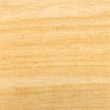
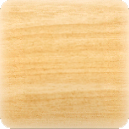
Add files via upload

diff --git a/script.js b/script.js
@@ -327,25 +327,62 @@ class Game {
     addEventListeners() {
         document.addEventListener('mousedown', (e) => this.handleMouseDown(e));
         document.addEventListener('mouseup', () => this.handleMouseUp());
+        document.addEventListener('touchstart', (e) => this.handleTouchStart(e));
+        document.addEventListener('touchend', () => this.handleTouchEnd());
+        document.addEventListener('touchmove', (e) => this.handleTouchMove(e), { passive: false });
         this.grid.querySelectorAll('.box').forEach(box => {
             box.addEventListener('mousemove', (e) => this.handleMouseMove(e, box));
             box.addEventListener('mousedown', (e) => this.handleBoxClick(e, box));
+            box.addEventListener('touchstart', (e) => this.handleBoxTouch(e, box));
         });
     }
 
+
     // Input detection
+    handleTouchStart(e) {
+        const touch = e.touches[0];
+        if (touch.target.classList.contains('box') && this.isInCenter(touch, touch.target)) {
+            this.isMouseDown = true;
+        }
+    }
     handleMouseDown(e) {
         if (e.target.classList.contains('box') && this.isInCenter(e, e.target)) {
             this.isMouseDown = true;
         }
     }
+
     handleMouseMove(e, box) {
         if (this.isMouseDown) {
             this.activateBox(e, box);
         }
     }
+    handleTouchMove(e) {
+        e.preventDefault();
+        const touch = e.touches[0];
+        const boxes = this.grid.querySelectorAll('.box');
+        
+        // For some reason we can't attach the touchmove listeners to each box individually
+        // because only 1 runs at a time. So we attach it to the document itself and adjust.
+        boxes.forEach(box => {
+            const rect = box.getBoundingClientRect();
+            const isTouchWithinBox = touch.clientX >= rect.left &&
+                                     touch.clientX <= rect.right &&
+                                     touch.clientY >= rect.top &&
+                                     touch.clientY <= rect.bottom;
+    
+            if (this.isMouseDown && isTouchWithinBox) {
+
+                this.activateBox(touch, box);
+            }
+        });
+    }
+
     handleBoxClick(e, box) {
         this.activateBox(e, box);
+    }
+    handleBoxTouch(e, box) {
+        const touch = e.touches[0];
+        this.activateBox(touch, box);
     }
 
     handleMouseUp() {
@@ -354,9 +391,25 @@ class Game {
         if (this.isWord(this.currWord, trieRoot) && !this.isWord(this.currWord, this.foundWordsTrieRoot)) {
             this.totalPoints += pointValues[this.currWord.length]
             
+            this.foundWordsTrieRoot.addWord(this.currWord);
+            this.scoreDisplayTextBox.textContent = 'SCORE: ' + this.totalPoints;
             // TODO
-            // this.foundWordsTrieRoot.addWord(this.currWord);
-            // this.scoreDisplayTextBox.textContent = 'SCORE: ' + this.totalPoints;
+            // this.displayFoundWord(this.currWord);
+        }
+        this.currWord = "";
+        this.updateCurrWord();
+        this.grid.querySelectorAll('.box').forEach(box => box.classList.remove('active'));
+        this.grid.querySelectorAll('.line').forEach(line => line.remove());
+    }
+    handleTouchEnd() {
+        this.isMouseDown = false;
+        this.lastActiveBox = null;
+        if (this.isWord(this.currWord, trieRoot) && !this.isWord(this.currWord, this.foundWordsTrieRoot)) {
+            this.totalPoints += pointValues[this.currWord.length]
+            
+            this.foundWordsTrieRoot.addWord(this.currWord);
+            this.scoreDisplayTextBox.textContent = 'SCORE: ' + this.totalPoints;
+            // TODO
             // this.displayFoundWord(this.currWord);
         }
         this.currWord = "";
@@ -382,6 +435,7 @@ class Game {
         const clickY = e.clientY;
         const distance = Math.sqrt(Math.pow(clickX - centerX, 2) + Math.pow(clickY - centerY, 2));
         const centerThreshold = boxRect.width / 2; // What counts as "center" for input detection; tweak as needed
+        
         return distance < centerThreshold;
     }
 
@@ -421,6 +475,7 @@ class Game {
     }
     
     drawLine(box1, box2) {
+        console.log("DRAWING");
         const line = document.createElement('div');
         line.className = 'line';
         this.grid.appendChild(line);

diff --git a/styles.css b/styles.css
@@ -153,7 +153,7 @@ button:active {
     justify-content: center;
     box-shadow: 0 6px 6px darkslategray;
     /* background-color: #f0c895; */
-    background-image: url('images/letter-tile-background-2.png');
+    background-image: url('images/letter-tile-background.png');
     background-position: center;
     background-repeat: no-repeat;
     user-select: none;
@@ -161,29 +161,32 @@ button:active {
     background-size: contain;
 }
 .box.active {
-    background-color: #eeeeee;
+    background-image: url('images/letter-tile-background-active.png');
     position: relative;
     z-index: 11;
     animation: jiggle 0.2s ease forwards;
 }
 @keyframes jiggle {
     0% {
-        transform: scale(1.09);
+        transform: scale(0.95);
     }
     60% {
-        transform: scale(1.05);
+        transform: scale(1.08);
+    }
+    80% {
+        transform: scale(1.04);
     }
     100% {
-        transform: scale(1.07);
+        transform: scale(1.06);
     }
 }
 .use-success-color .box.active {
-    background-color: #7BF67A;
+    background-image: url('images/letter-tile-background-success.png');
     position: relative;
     z-index: 11;
 }
 .use-repeated-word-color .box.active {
-    background-color: #e8e697;
+    background-image: url('images/letter-tile-background-repeat.png');
     position: relative;
     z-index: 11;
 }
@@ -210,4 +213,23 @@ button:active {
 }
 #currWordTextBox.use-repeated-word-color {
     background-color: #e8e697;
+}
+
+/* Word Selection Line Styles */
+.line {
+    /* TODO dont make it hard coded */
+    height: 12px;
+    background-color: red;
+    transform-origin: 0 0;
+    position: absolute;
+    z-index: 15;
+    opacity: .5;
+    border-radius: 10px;
+}
+
+.use-success-color .line,
+.use-repeated-word-color .line {
+    background-color: white;
+    z-index: 15;
+    opacity: .8;
 }
